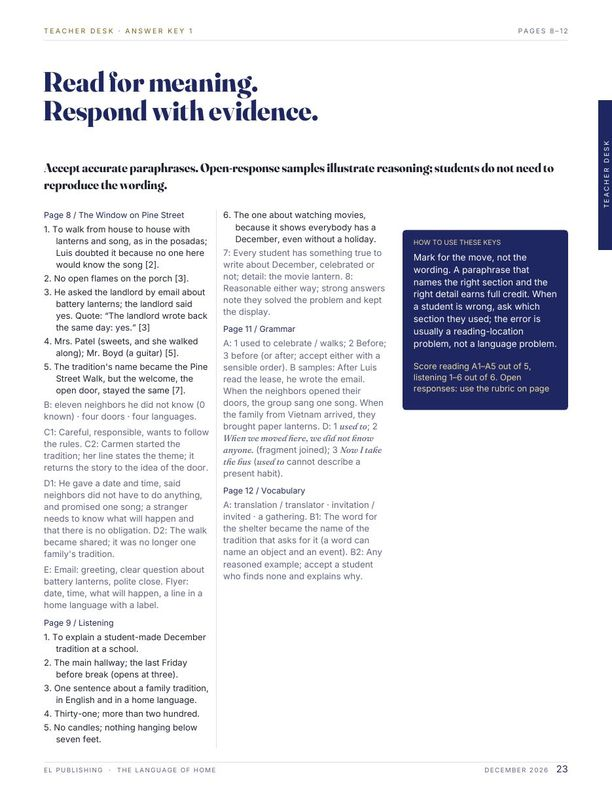
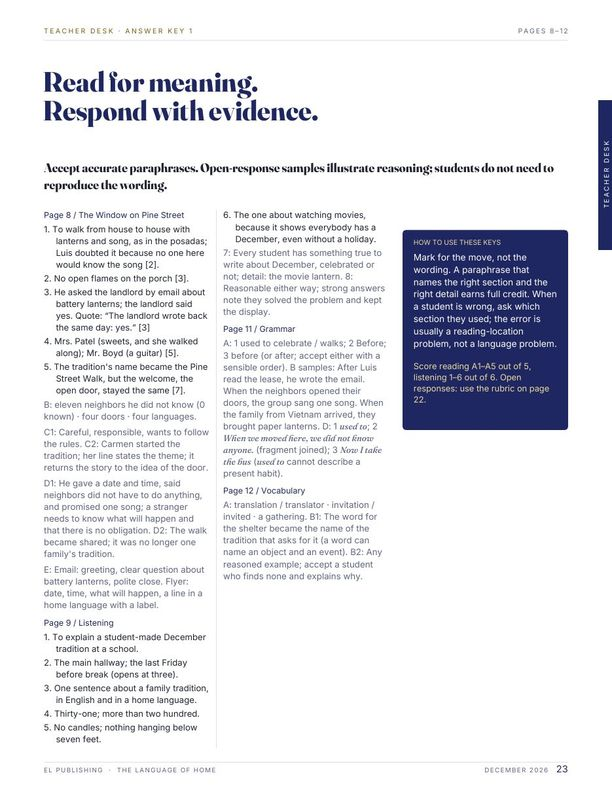
Fix key box on page 23
Claude-Session: https://claude.ai/code/session_01LFVDNdeyvLaxmGkgoRKMLm

Changed region(s): [[0.652, 0.5152, 0.9314, 0.5455]]

diff --git a/tools/make-magazine-2026-12.py b/tools/make-magazine-2026-12.py
@@ -826,7 +826,7 @@ K1 = [P("Page 8 / The Window on Pine Street", h2), NL(["To walk from house to ho
       P("Page 11 / Grammar", h2), P("<b>A:</b> 1 used to celebrate / walks; 2 Before; 3 before (or after; accept either with a sensible order). <b>B samples:</b> After Luis read the lease, he wrote the email. When the neighbors opened their doors, the group sang one song. When the family from Vietnam arrived, they brought paper lanterns. <b>D:</b> 1 <i>used to</i>; 2 <i>When we moved here, we did not know anyone.</i> (fragment joined); 3 <i>Now I take the bus</i> (<i>used to</i> cannot describe a present habit).", bodyS),
       P("Page 12 / Vocabulary", h2), P("<b>A:</b> translation / translator · invitation / invited · a gathering. <b>B1:</b> The word for the shelter became the name of the tradition that asks for it (a word can name an object and an event). <b>B2:</b> Any reasoned example; accept a student who finds none and explains why.", bodyS)]
 e = columns(c, K1, 3, sy - 16, 44); e3 = LAST_ENDS[2]
-if e3 > 200: dark_box(c, M + 2 * (C3 + GUT), e3 - 20 - 180, C3, 180, "How to use these keys", [P("Mark for the move, not the wording. A paraphrase that names the right section and the right detail earns full credit. When a student is wrong, ask which section they used; the error is usually a reading-location problem, not a language problem.", wbody), Spacer(1, 6), P("Score reading A1–A5 out of 5, listening 1–6 out of 6. Open responses: use the rubric on page 22.", S("kb", "In-R", 8.4, 11.2, GOLDLT))])
+if e3 > 200: dark_box(c, M + 2 * (C3 + GUT), e3 - 20 - 200, C3, 200, "How to use these keys", [P("Mark for the move, not the wording. A paraphrase that names the right section and the right detail earns full credit. When a student is wrong, ask which section they used; the error is usually a reading-location problem, not a language problem.", wbody), Spacer(1, 6), P("Score reading A1–A5 out of 5, listening 1–6 out of 6. Open responses: use the rubric on page 22.", S("kb", "In-R", 8.4, 11.2, GOLDLT))])
 endpage(c, 23, "planner")
 
 # ---------------- 24 ANSWER KEY 2 ----------------
